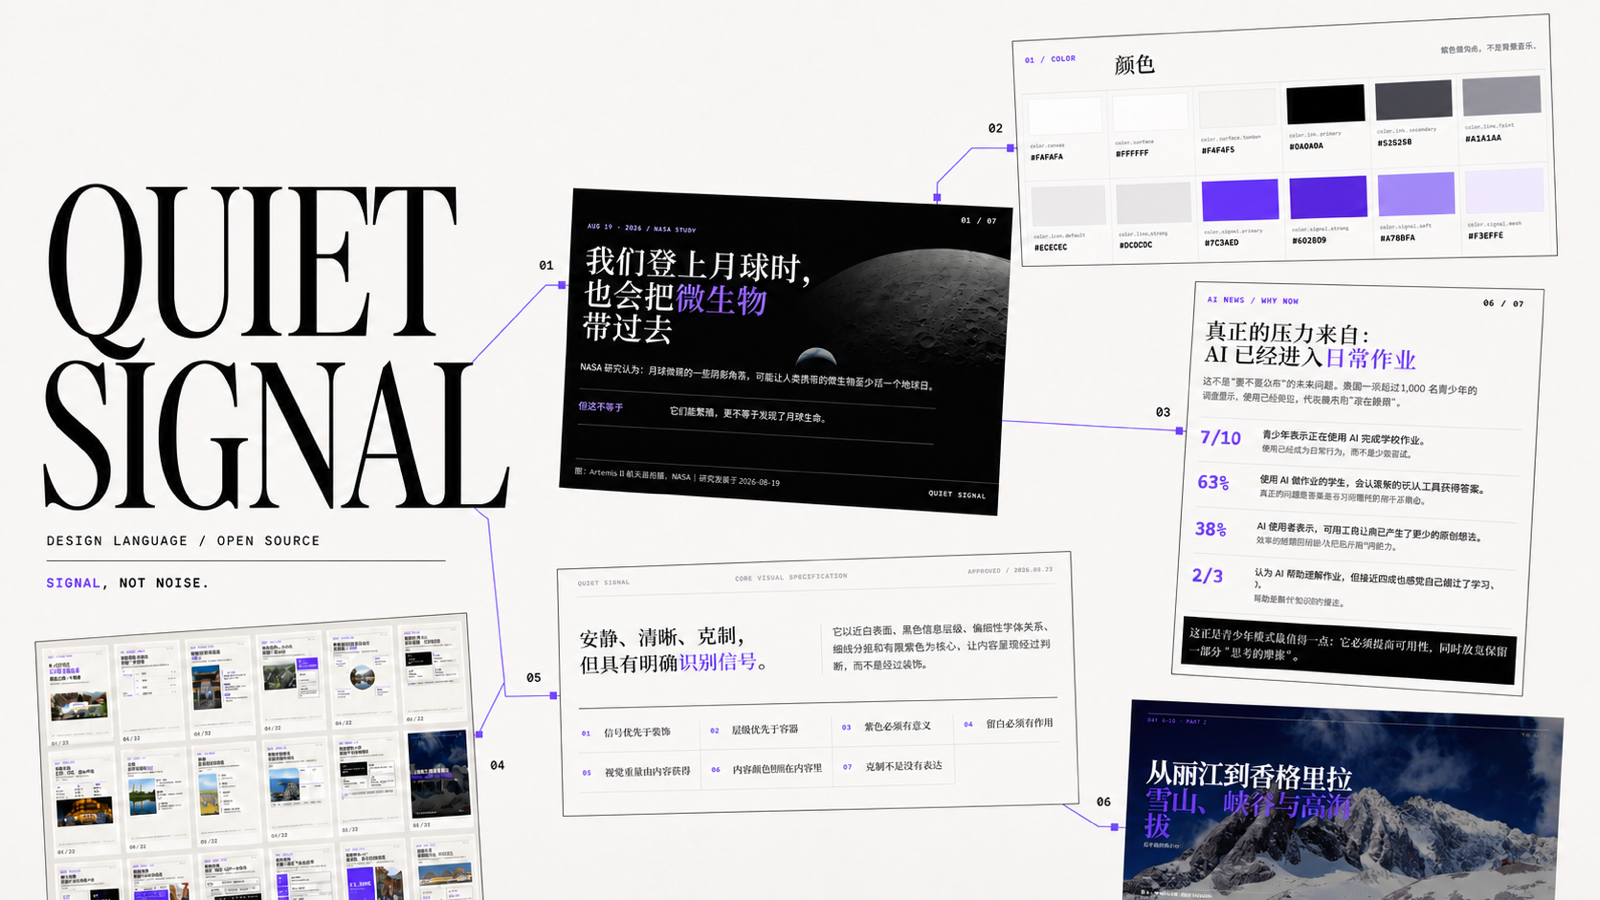
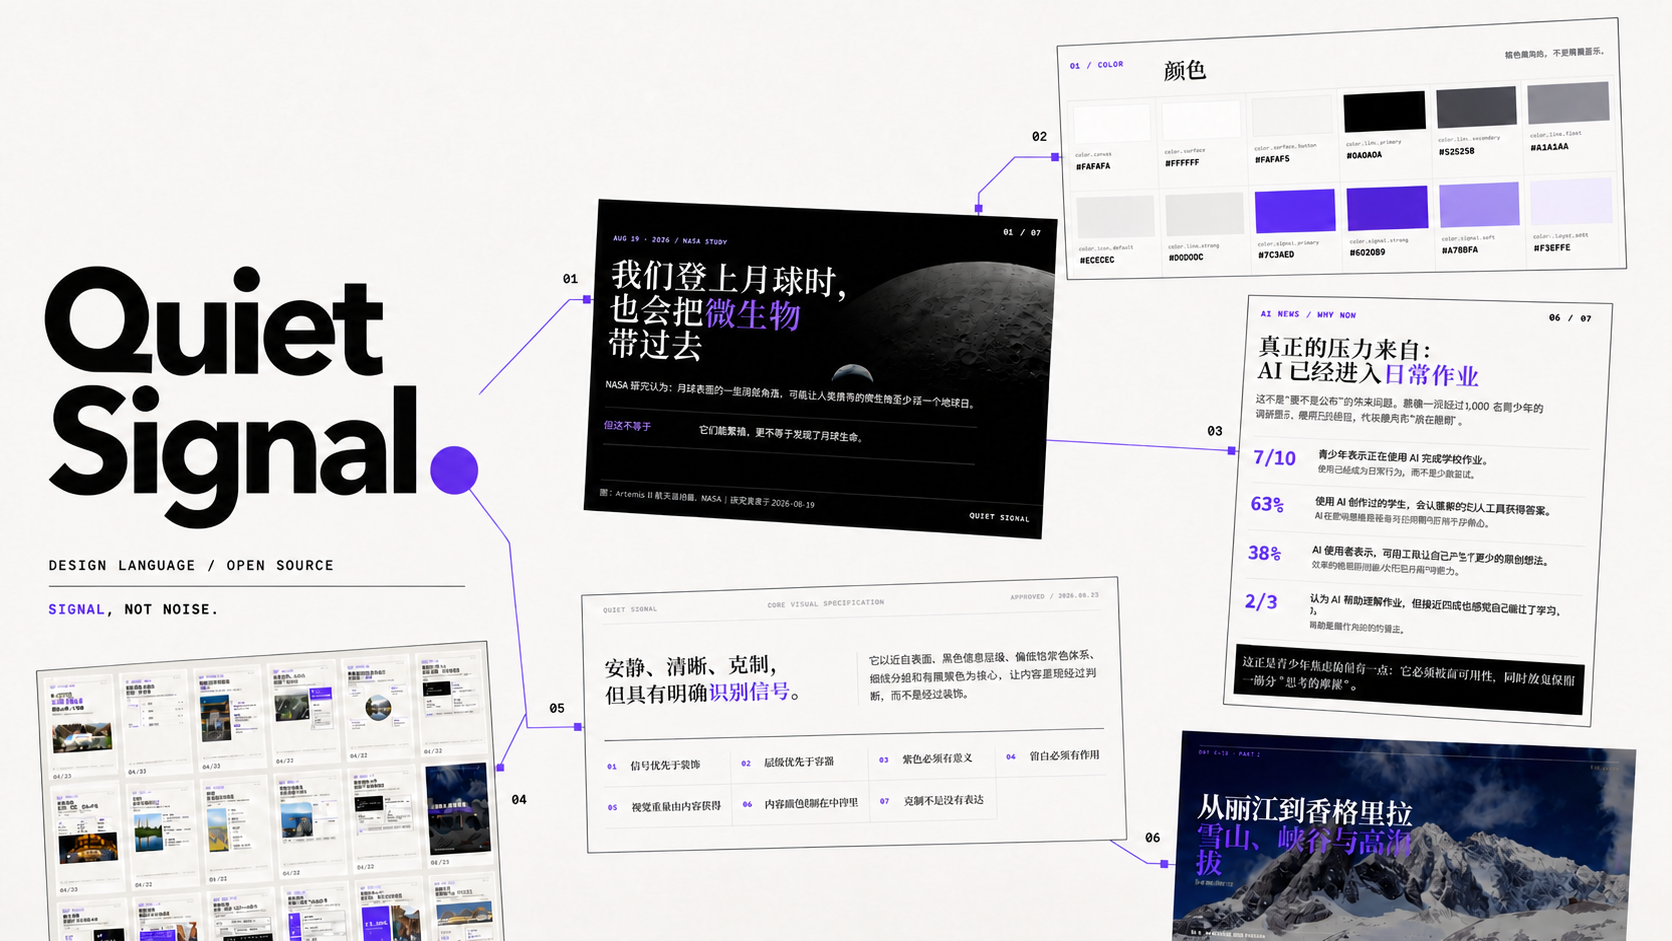
Refresh README hero and app example

diff --git a/README.md b/README.md
@@ -68,18 +68,18 @@ npx skills add oyorf/quiet-signal \
 ```
 
 ```text
-使用 quiet-signal-design Skill，帮我设计一款个人知识管理 App。
-需要包含首页、内容详情页和搜索页，保留我提供的文案与功能结构，
-应用 Quiet Signal 视觉语言，输出完整界面和可编辑源文件。
+使用 quiet-signal-design Skill，帮我设计一款个人任务与知识管理 App。
+需要包含“今天”“知识”“本周回顾”三个核心页面，清楚呈现任务、笔记和每周数据，
+应用 Quiet Signal 视觉语言，输出完整的移动端界面和可编辑源文件。
 ```
 
 为了得到稳定结果，请同时提供：设计对象与目标、必须保留的内容、必要结构或功能、尺寸与技术限制，以及期望的交付格式。基座只定义“如何看起来”，不会替用户发明内容策略、产品功能或媒介规格。
 
 ### 示例
 
-下面的开源发布海报由基座视觉语言组织：中性表面建立主体，紫色只承担识别与关系信号，内容通过层级、细线与空间形成一条明确阅读轴。
+下面的个人任务与知识管理 App 由基座视觉语言组织：三个核心页面分别承载当日行动、知识检索与每周回顾，紫色只用于当前状态和关键数据，界面通过层级、细线与空间建立清晰阅读路径。
 
-![Quiet Signal 基座设计示例](docs/assets/quiet-signal-open-source-poster.png)
+![Quiet Signal 个人任务与知识管理 App 设计示例](docs/assets/quiet-signal-app-example.png)
 
 核心规范见 [`skills/quiet-signal-design/references/SPEC.md`](skills/quiet-signal-design/references/SPEC.md)。
 
